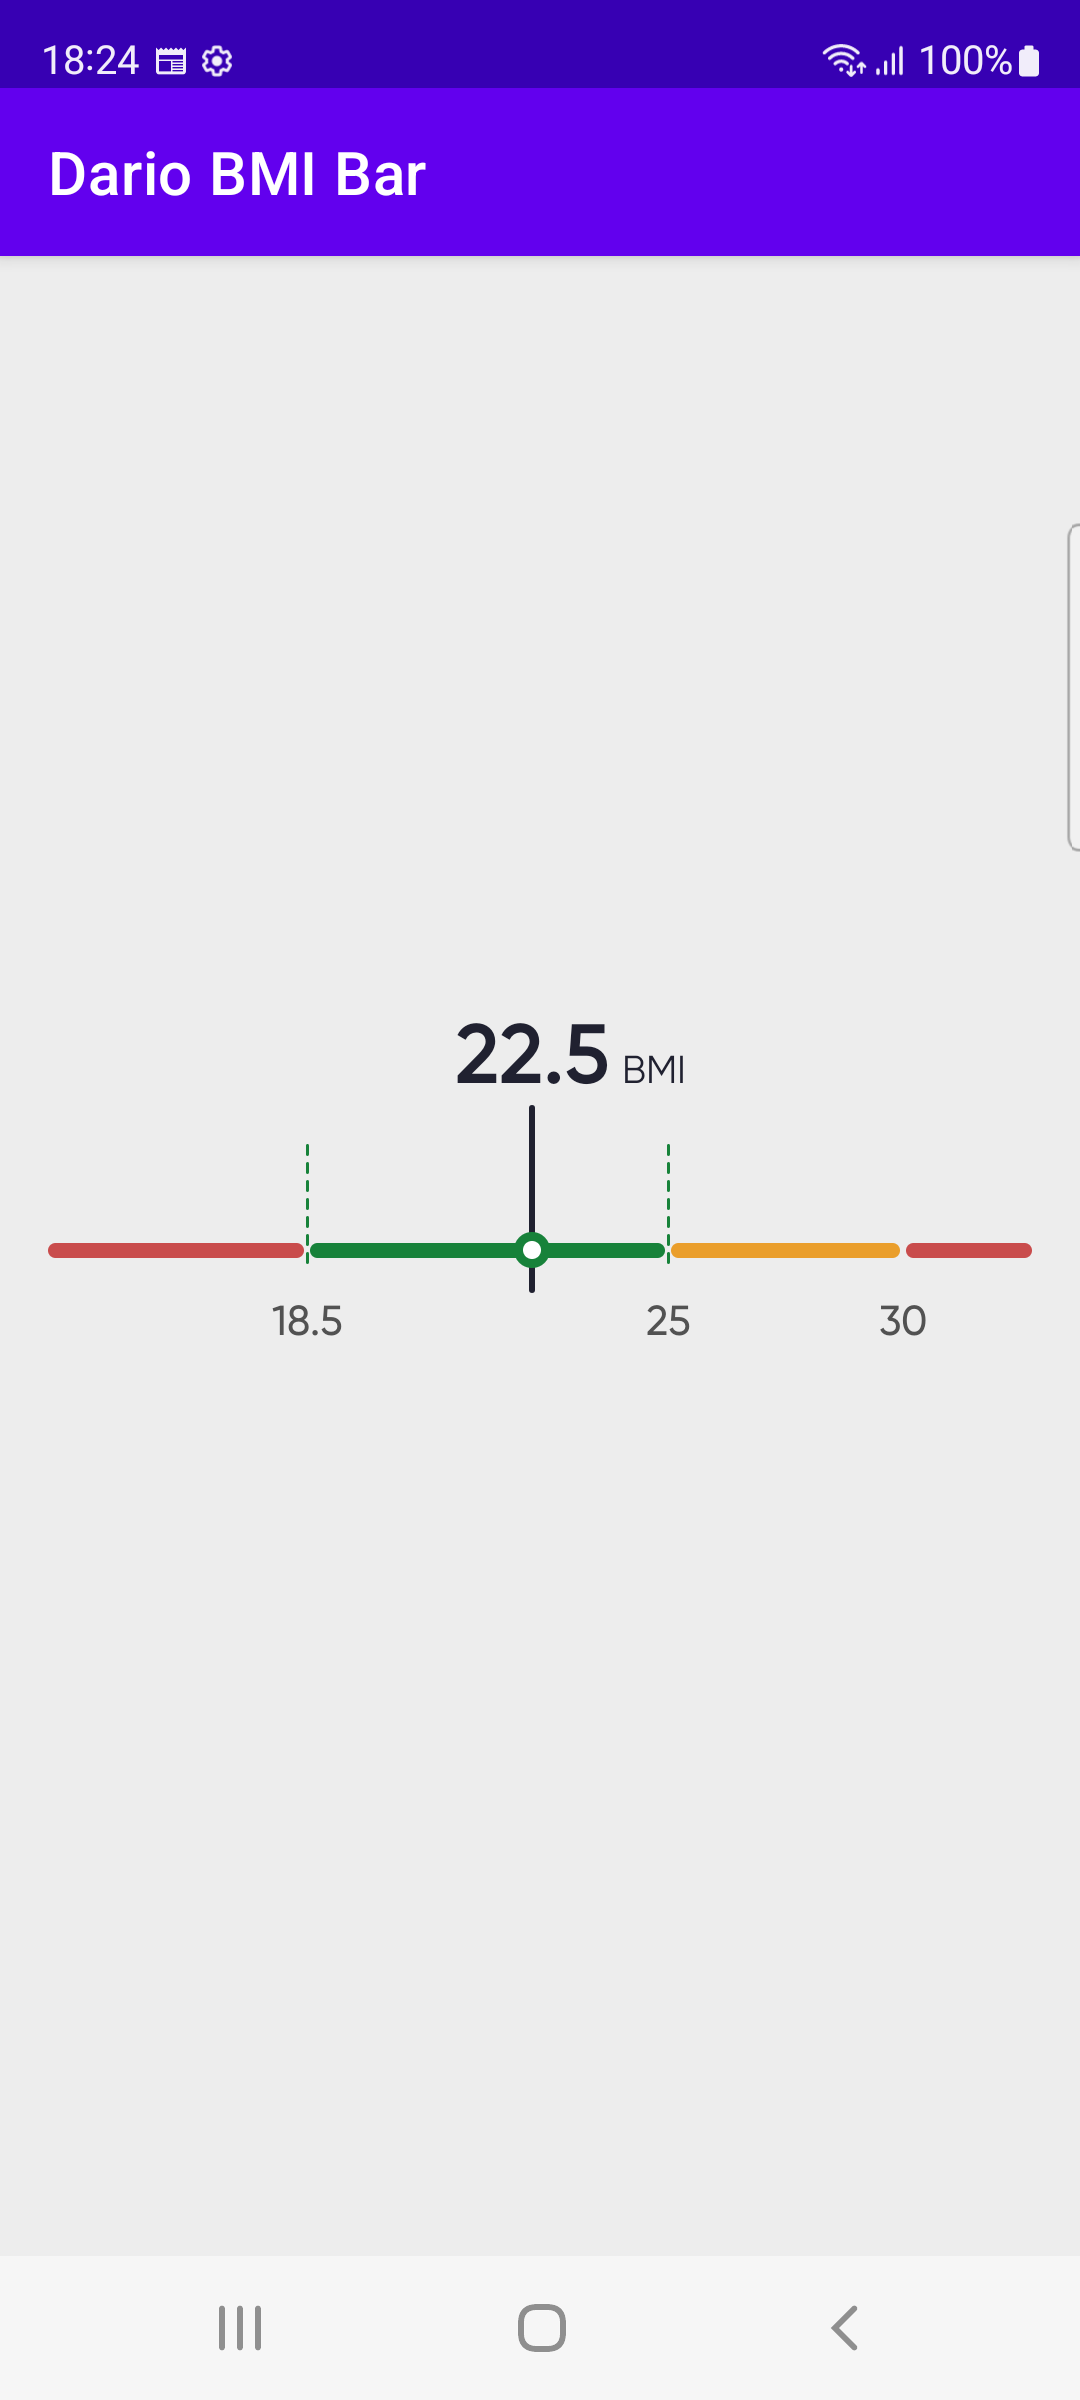
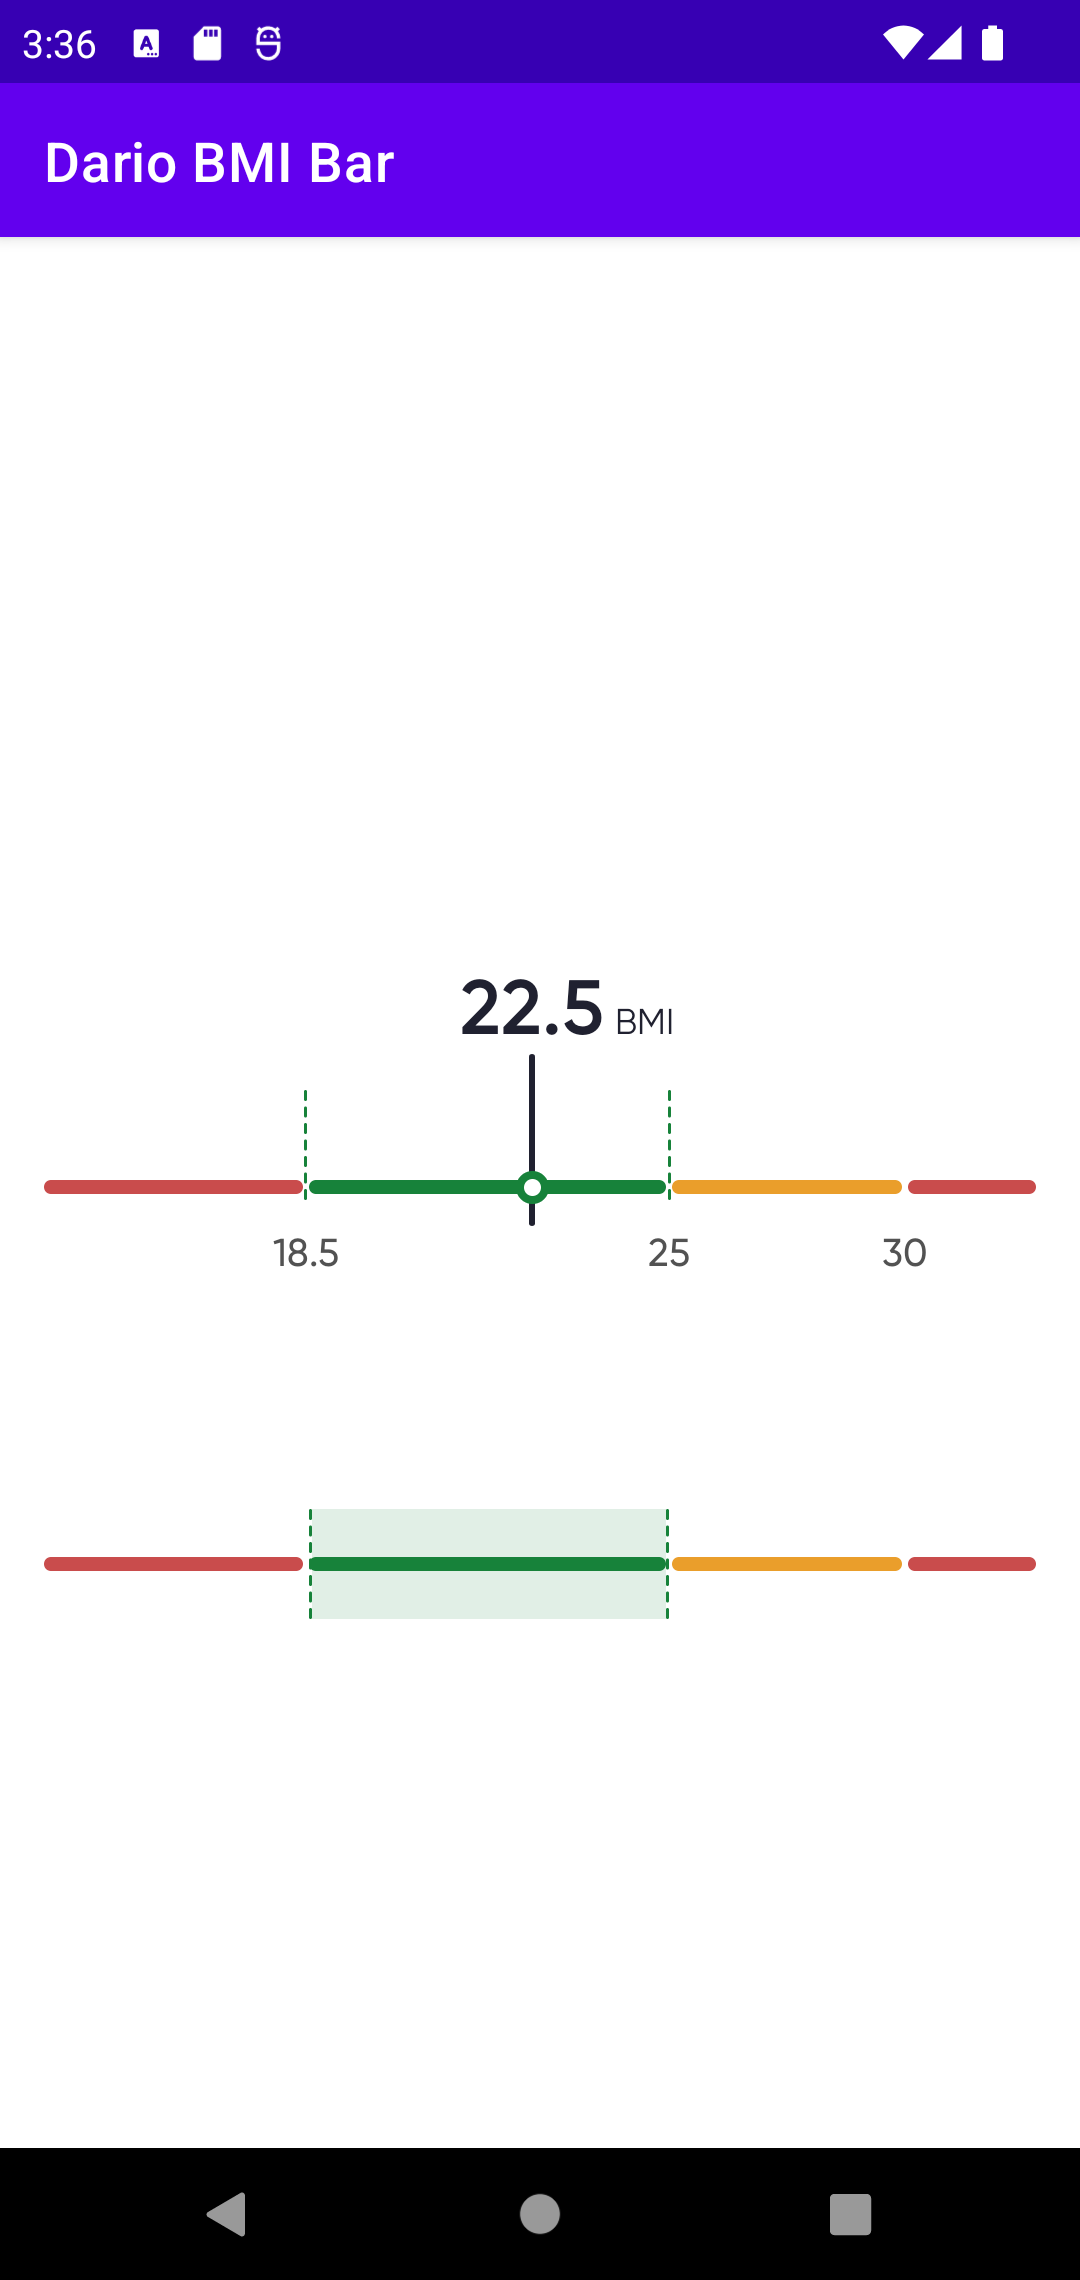
added the sections view

diff --git a/dariobmibar/src/main/java/com/labstyle/dariobmibar/DarioBMISections.kt b/dariobmibar/src/main/java/com/labstyle/dariobmibar/DarioBMISections.kt
@@ -1,0 +1,56 @@
+package com.labstyle.dariobmibar
+
+import android.content.Context
+import android.icu.lang.UCharacter.GraphemeClusterBreak.V
+import android.util.AttributeSet
+import android.view.View
+import android.widget.RelativeLayout
+
+class DarioBMISections @JvmOverloads constructor(
+    context: Context,
+    attrs: AttributeSet? = null,
+    defStyle: Int = 0,
+    defStyleRes: Int = 0
+): RelativeLayout(context, attrs, defStyle, defStyleRes) {
+    private var bmi = 21f
+
+    init {
+        val attributes = context.obtainStyledAttributes(attrs, R.styleable.DarioBMIBar)
+        bmi = attributes.getFloat(R.styleable.DarioBMIBar_bmi, bmi)
+        attributes.recycle()
+
+        inflate(context, R.layout.dario_bmi_sections, this)
+
+        setBMIValue(bmi)
+    }
+
+    fun setBMIValue(value: Float) {
+        bmi = value
+
+        val dividers = listOf<View>(
+            findViewById(R.id.divider0),
+            findViewById(R.id.divider1),
+            findViewById(R.id.divider2),
+            findViewById(R.id.divider3),
+            findViewById(R.id.divider4),
+            findViewById(R.id.divider5),
+            findViewById(R.id.divider6),
+            findViewById(R.id.divider7)
+        )
+        dividers.forEach { it.visibility = View.GONE }
+
+        if (bmi < 18.5) {
+            dividers[0].visibility = View.VISIBLE
+            dividers[1].visibility = View.VISIBLE
+        } else if (bmi >= 18.5 && bmi < 25.0) {
+            dividers[2].visibility = View.VISIBLE
+            dividers[3].visibility = View.VISIBLE
+        } else if (bmi >= 25.0 && bmi < 30.0) {
+            dividers[4].visibility = View.VISIBLE
+            dividers[5].visibility = View.VISIBLE
+        } else {
+            dividers[6].visibility = View.VISIBLE
+            dividers[7].visibility = View.VISIBLE
+        }
+    }
+}

diff --git a/app/src/main/java/com/labstyle/dariobmibarapp/MainActivity.kt b/app/src/main/java/com/labstyle/dariobmibarapp/MainActivity.kt
@@ -2,10 +2,15 @@ package com.labstyle.dariobmibarapp
 
 import androidx.appcompat.app.AppCompatActivity
 import android.os.Bundle
+import com.labstyle.dariobmibar.DarioBMIBar
+import com.labstyle.dariobmibar.DarioBMISections
 
 class MainActivity : AppCompatActivity() {
     override fun onCreate(savedInstanceState: Bundle?) {
         super.onCreate(savedInstanceState)
         setContentView(R.layout.activity_main)
+
+        findViewById<DarioBMIBar>(R.id.bmiBar).setBMIValue(22.5f)
+        findViewById<DarioBMISections>(R.id.bmiSections).setBMIValue(22.5f)
     }
 }

diff --git a/README.md b/README.md
@@ -17,7 +17,7 @@ allprojects {
 
 Add the dependency:
 ```gradle
-implementation 'com.github.myDario:DarioBMIBar:1.0.0'
+implementation 'com.github.myDario:DarioBMIBar:1.0.1'
 ```
 
 ## Usage
@@ -39,4 +39,24 @@ Change BMI at runtime
 
 ```kotlin
 findViewById<DarioBMIBar>(R.id.bmi).setBMIValue(22.5f)
+```
+
+BMI Bar view with highlighted sections
+
+```xml
+<com.labstyle.dariobmibar.DarioBMISections
+    android:id="@+id/bmiSections"
+    android:layout_width="0dp"
+    android:layout_height="200dp"
+    app:bmi="22.5"
+    app:layout_constraintStart_toStartOf="parent"
+    app:layout_constraintEnd_toEndOf="parent"
+    app:layout_constraintTop_toTopOf="parent"
+    app:layout_constraintBottom_toBottomOf="parent"/>
+```
+
+Change BMI at runtime
+
+```kotlin
+findViewById<DarioBMISections>(R.id.bmiSections).setBMIValue(22.5f)
 ```
